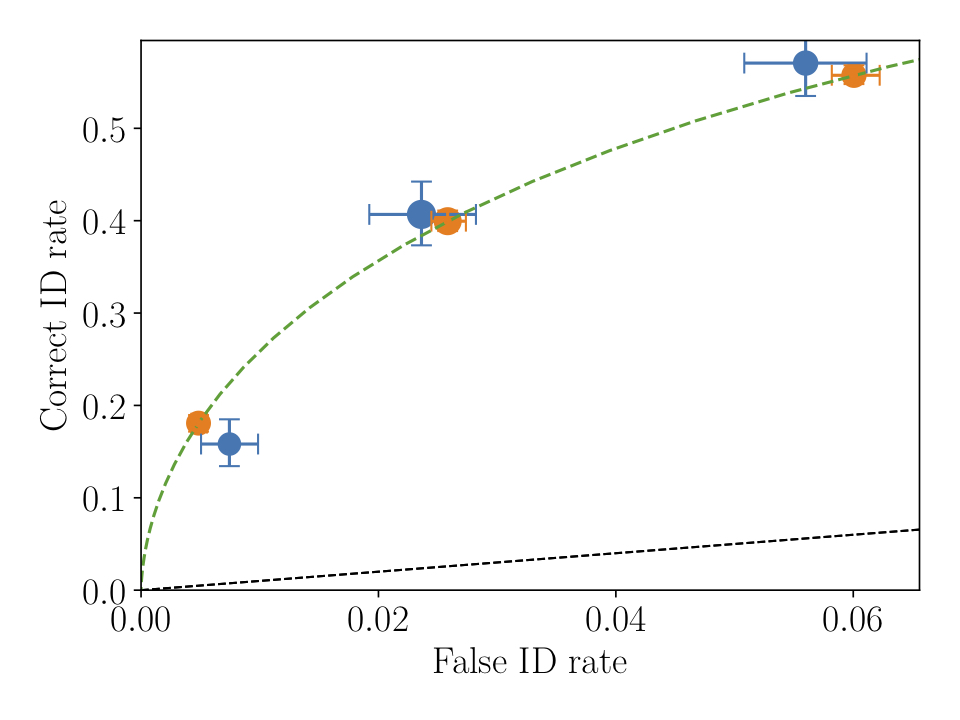
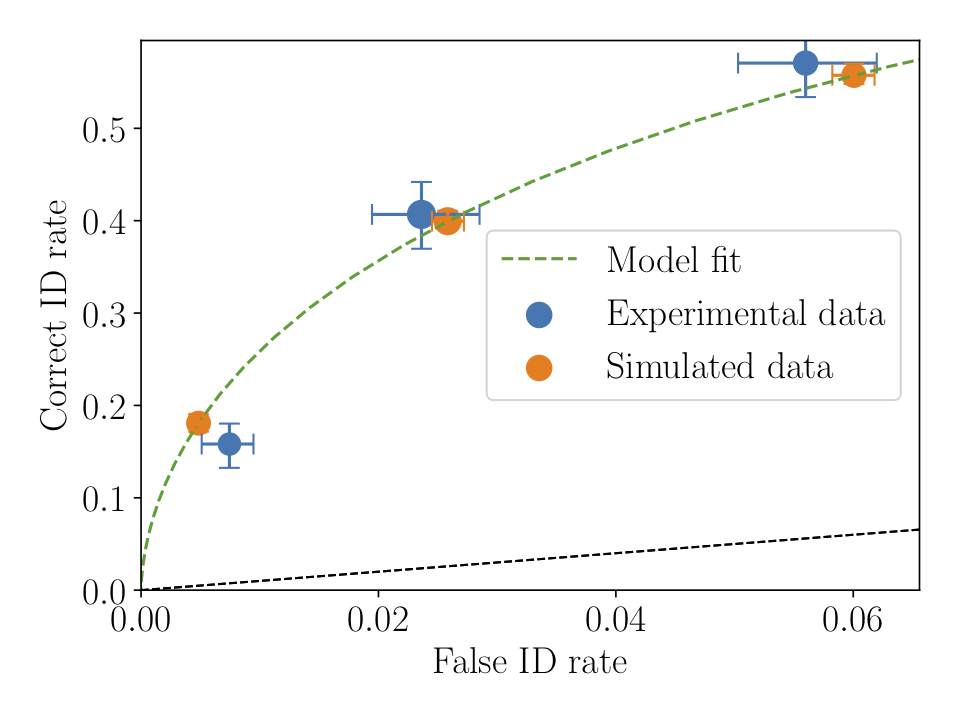
Online manual update

diff --git a/docs/searchindex.js b/docs/searchindex.js
@@ -1,1 +1,1 @@
-Search.setIndex({docnames:["authorship","index","installation","introduction","licence","moduledocs","tutorials","tutorials_adv","tutorials_dev"],envversion:{"sphinx.domains.c":1,"sphinx.domains.changeset":1,"sphinx.domains.cpp":1,"sphinx.domains.javascript":1,"sphinx.domains.math":2,"sphinx.domains.python":1,"sphinx.domains.rst":1,"sphinx.domains.std":1,"sphinx.ext.todo":1,sphinx:55},filenames:["authorship.rst","index.rst","installation.rst","introduction.rst","licence.rst","moduledocs.rst","tutorials.rst","tutorials_adv.rst","tutorials_dev.rst"],objects:{"pyWitness.DataProcessed":{calculateCAC:[5,1,1,""],calculateConfidence:[5,1,1,""],calculateConfidenceBootstrap:[5,1,1,""],calculateNormalisedAUC:[5,1,1,""],calculatePAUC:[5,1,1,""],calculatePivot:[5,1,1,""],calculateRates:[5,1,1,""],calculateRelativeFrequency:[5,1,1,""],liberalTargetAbsentFillerId:[5,2,1,""],liberalTargetAbsentSuspectId:[5,2,1,""],numberConditions:[5,2,1,""],plotCAC:[5,1,1,""],plotRAC:[5,1,1,""],plotROC:[5,1,1,""],printPivot:[5,1,1,""],printRates:[5,1,1,""],writePivotCsv:[5,1,1,""],writePivotExcel:[5,1,1,""],writePivotSimpleCsv:[5,1,1,""],writeRatesCsv:[5,1,1,""],writeRatesExcel:[5,1,1,""]},"pyWitness.DataRaw":{addParticipant:[5,1,1,""],collapseCategoricalData:[5,1,1,""],collapseContinuousData:[5,1,1,""],data:[5,2,1,""],dataMapping:[5,2,1,""],dataSelected:[5,2,1,""],descriptiveStatistics:[5,1,1,""],excelSheet:[5,2,1,""],fileName:[5,2,1,""],loadData:[5,1,1,""],process:[5,1,1,""],renameRawData:[5,1,1,""],resampleWithReplacement:[5,1,1,""],setLineupSize:[5,1,1,""],setResponseType:[5,1,1,""],setResponseTypeFillerId:[5,1,1,""],setResponseTypeRejectId:[5,1,1,""],setResponseTypeSuspectId:[5,1,1,""],setTargetLineup:[5,1,1,""],setTargetLineupAbsent:[5,1,1,""],setTargetLineupPresent:[5,1,1,""],writeCsv:[5,1,1,""],writeExcel:[5,1,1,""]},"pyWitness.ModelFitIndependentObservation":{calculateCumulativeFrequencyForCriterion:[5,1,1,""],monteCarloDecision:[5,1,1,""],setEqualVariance:[5,1,1,""]},pyWitness:{DataProcessed:[5,0,1,""],DataRaw:[5,0,1,""],ModelFitIndependentObservation:[5,0,1,""]}},objnames:{"0":["py","class","Python class"],"1":["py","method","Python method"],"2":["py","attribute","Python attribute"]},objtypes:{"0":"py:class","1":"py:method","2":"py:attribute"},terms:{"class":[5,6,8],"default":6,"float":[3,5,8],"function":[5,6,7],"import":[2,6,7],"int":5,"new":[1,2,3,5,6,7],"public":4,"return":[5,8],"true":[5,6],"try":[2,3,6],And:6,FOR:4,For:[3,7],One:3,The:[0,3,5,6,7],There:[2,3,6],These:2,Use:6,Using:1,__init__:8,_integr:8,_np:8,_plt:7,abil:[3,7],about:3,absent:[3,7,8],accuraci:[3,5],addparticip:5,advanc:1,after:[6,7],against:5,aid:3,algorithm:3,all:[3,5,6,7],along:4,alreadi:7,also:[5,7],alwai:6,analys:3,analysi:[1,2,3,6],analyz:3,ani:[3,4,7],anoth:6,approach:7,appropri:6,area:[5,6],argument:6,arrai:[6,8],arrow:6,associ:[3,6],assum:2,auc:7,authorship:1,automat:[5,6],avail:6,averag:5,axi:7,background:1,bar:[5,7],base:[3,5],bash:2,basic:7,been:[2,3,6],befor:6,belong:6,below:[3,6],best:6,between:6,bin:[1,3,5,7],boogert:0,bool:5,boot:7,bootstrap:[1,5],both:3,bristol:4,build:6,button:2,cac:[1,3,5,7],calcual:5,calcul:[1,3,5,7],calculatecac:5,calculateconfid:5,calculateconfidencebootstrap:[5,7],calculatecumulativefrequencyforcriterion:[5,8],calculatenormalisedauc:5,calculatepauc:5,calculatepivot:5,calculater:5,calculaterelativefrequ:5,calculatewithinsigma:8,call:[2,6,7],calll:7,can:[2,3,4,6,7],cannot:6,canva:7,carlo:[1,3],catagor:1,catagori:[5,6],categor:6,categori:5,central:7,chang:[2,5,6,7],characterist:[1,5],check:7,choos:2,cite:1,click:2,clone:1,code:[1,2,5,6],collaps:[1,7],collapsecategoricaldata:[5,6],collapsecontinuousdata:[5,6,7],colleagu:7,column:[5,6],com:2,comfort:2,command:[2,6],common:1,commonli:3,compar:[3,6],compil:6,complet:6,compris:3,comput:[2,3,7],conda:2,condit:[1,3,5],condtion:7,conf_level:[3,7],confid:[1,3,5,6],confidence_origin:6,consist:[3,5],consol:6,construct:6,consum:3,contain:6,content:1,continu:1,contribut:0,contributor:1,convert:5,copi:[2,4,5,6],copyright:[4,6],could:3,cours:3,creat:[3,5,6,7],credit:6,crime:3,criteria:6,csv:[5,6,7],culprit_pres:[3,7],cummul:6,cumul:[5,6,7],current:6,cursor:6,curv:[1,3,5],cut:6,data:[1,2,5],data_pivot:5,data_r:5,datafram:[5,6],datamap:[5,7],dataprocess:[1,6,7],dataraw:[1,6,7],dataselect:5,debug:[5,8],decis:1,decreas:5,def:8,defin:7,demograph:3,depend:7,deriv:3,describ:6,descriptivestatist:5,detail:4,detect:1,develop:[1,2],diagram:3,differ:[3,6,7],differen:3,directoi:6,directori:[2,6],disclaim:1,discrimin:3,disk:7,displai:6,dissimilar:7,distinguish:3,distribut:[4,6,7],document:[3,5],doe:7,done:[6,7],down:6,download:1,dp1:7,dp2:7,dpseq:7,dpsim:7,dr1:7,dr2:7,drawn:7,dure:6,each:[2,6,7],ecosystem:2,edit:2,effect:7,either:[3,5,6,7],engin:5,enhanc:6,ensembl:3,environ:1,equal:6,error:[2,3,7],errortyp:5,estim:[6,7],etc:7,even:4,exampl:7,excel:[1,5,6],excelsheet:[5,7],exclus:2,execut:6,experi:3,experiment:[1,3,7],explor:7,extra:6,eye:1,eyewit:[1,5],fals:[5,6,8],falseid:5,familiar:2,far:3,featur:6,fequenc:5,file:[1,4,5,7],filenam:5,fill:6,filler:[3,7,8],fillerid:[3,5,6,7],fillerid_high:7,fillerid_low:7,find:6,fit:[1,4],fix:6,flag:5,flexibl:3,flip:5,follow:[0,6,7],forc:6,format:[1,6],forward:7,foundat:4,four:6,fragment:6,frame:[5,6],free:[4,6],frequenc:[3,5,6],frequnci:5,from:[1,3,5,6],further:6,gener:[1,4,5],generaterawdata:7,get:2,git:1,github:2,give:6,given:[3,6,7],gnu:4,goal:1,good:[6,7],green:2,guilti:3,had:7,has:[2,6,7],have:[0,2,3,4,6,7],header:5,help:6,here:6,high:[3,5,7],highlight:6,histori:6,hit:6,hollowai:4,hope:4,http:[2,4],human:3,id_typ:[3,7],idea:6,ident:3,identif:1,identifi:3,illustr:3,imagin:7,impli:4,importantli:3,incomplet:5,inconsist:6,increas:5,independ:[3,6],index:1,inform:6,innoc:3,input:[2,5,6],instal:1,instanc:[1,5],instead:7,integ:3,integr:[3,5,6],integrationsigma:[5,8],interact:[2,3,6],interfac:[1,6],intern:[1,6,7],interpol:6,interpret:[2,6],interv:[5,7],introduct:[1,6],ipython3:[2,6],ipython:[2,6],its:6,kei:[5,6],label:[3,5,6,7],land:6,languag:6,larg:6,laura:0,legend:[5,7],level:6,liber:6,liberaltargetabsentfillerid:5,liberaltargetabsentsuspectid:5,licenc:1,licens:[4,6],like:7,likelihood:[1,3],limit:[1,5],line:[2,6],linear:6,lineup:[3,5,6,8],lineup_s:[3,7],lineups:[3,5,6,7,8],link:6,linux:2,littl:3,lmick:2,load:[1,5],loaddata:5,lock:6,london:4,lot:[6,7],low:[3,5,7],lower:5,lure:6,lurebetweensigma:6,luremean:[6,8],luresigma:[6,8],maco:2,made:3,mai:[3,5],make:[1,3,6,7],mani:6,manipul:[1,3,7],manual:6,map:[3,5,6],match:6,matlab:[1,3],matplotlib:[2,6,7],maximum:[5,6],mayb:7,mean:[6,8],measur:[3,7],medium:3,memori:[3,6],memorystrength:5,merchant:4,mess:6,method:[3,6,7],mf_br:6,mf_en:6,mf_in:6,mf_io:6,mick:0,might:[6,7],miniconda:2,minim:3,model:1,modelfit:[1,6,8],modelfitbestrest:6,modelfitensembl:6,modelfitindependentobserv:[5,6,7],modelfitintegr:[6,8],modifi:4,modul:[1,6],mont:[1,3],montecarlodecis:5,more:[4,6],most:6,move:2,multipl:[6,7],name:[5,6,7],nan:6,nbootstrap:[5,7],need:[2,3,6,7],ngenparticip:7,nlineup:8,none:[5,6,7],normcdf:8,normpdf:8,note:6,now:6,numba:[2,6],number:[3,5,7],numbercondit:5,numbertalineup:8,numbertplineup:8,numer:[5,6],numpi:[2,6],object:[5,6,7],observ:[3,6],onc:[6,7],one:[6,7],onli:7,open:[2,3],openpyxl:[2,5,6],oper:[1,5],option:7,order:[6,7],org:4,organis:3,orient:[6,7],origin:[6,7],other:[2,3,5],our:3,output:[5,6],overlai:1,own:2,pacakg:3,packag:[1,2,3],page:1,panda:[2,5,6],parad:3,paramet:[5,7],part:[4,5],partial:[5,6],particip:7,participantid:[3,5,6],particular:[4,6],past:[2,6],pauc:[1,3,7],peopl:[0,5],perform:[1,3,7],perpetr:3,person:3,pip3:2,pivot:[3,5,6,7],place:3,plot:[1,3,5],plotcac:[5,6,7],plotfit:6,plotmodel:6,plotrac:5,plotroc:[5,6,7],plotxxx:7,point:[3,6],polic:3,popul:7,posit:3,possibl:[3,7],power:[1,3],powershel:2,pred_tafid:8,pred_tafid_arrai:5,pred_tpfid:8,pred_tpfid_arrai:5,pred_tpsid:8,pred_tpsid_arrai:5,predict:3,present:[3,7,8],preserv:7,previou:6,previous:6,print:6,printparamet:6,printpivot:[5,6],printrat:[5,6],prob_tafid:8,prob_tpfid:8,prob_tpsid:8,probabl:6,probfilleridtargetabs:8,probfilleridtargetabsentintegr:8,probfilleridtargetpres:8,probfilleridtargetpresentintegr:8,probtargetidtargetpres:8,probtargetidtargetpresentintegr:8,proc:3,proccess:7,proce:[2,7],procedur:3,process:[1,3,5],processeddata:[5,8],program:[2,6],prompt:6,prone:3,proport:5,provid:[2,6],publish:4,pull:2,purpos:4,pylab:[2,6],pyplot:7,python:[1,5,7],pyw:6,pywit:[4,5,6,7],quad:8,quantiti:7,rac:[1,3],random:7,rang:[6,7],rate:[3,5,6,7],raw:[1,3,5],read:6,reaload:5,rebin:[5,7],receiv:[1,4,5],redistribut:4,reduc:[3,6],reject:[3,5,7],rejectid:[3,6,7],rejectid_high:7,rejectid_low:7,rel:[3,5,6],relabel:6,relativefrequencyscal:[5,6],releas:6,relev:3,reload:[5,6],remap:5,renam:5,renamerawdata:5,repeat:7,replac:[2,5,7],repositori:1,reproduc:3,requir:[1,5,6,7],resampl:5,resamplewithreplac:5,research:1,respons:3,responsetim:6,responsetyp:[3,5,6,7],result:[1,5],reverseconfid:5,roc:[1,5,7],row:7,royal:4,rtype:5,rule:[1,6],run:[1,3,6],same:[6,7],sampl:7,scale:[3,5],scan:5,scipi:[2,6],search:[1,6],see:[4,6],select:5,self:8,sep:6,sequenti:7,session:7,set:[3,5,6,7],set_equ:6,setequalvari:[5,6,7],setlineups:5,setresponsetyp:5,setresponsetypefillerid:5,setresponsetyperejectid:5,setresponsetypesuspectid:5,settargetlineup:5,settargetlineupabs:5,settargetlineuppres:5,share:7,sheet:[5,7],shell:2,should:[2,4,6],show:1,shown:[3,6],showup:3,sigma:8,signal:1,simpl:6,simpli:7,simpson:6,simul:[1,3,7],simultan:7,simultanu:7,singl:[1,6],size:[5,6,7],smooth:3,softwar:4,some:6,sourc:[3,5],specifi:7,speed:6,sqrt:8,start:[2,6],statist:[1,7],stewart:0,store:[3,5,6,7],str:5,straight:7,strap:7,strenth:6,string:6,structur:1,suitabl:2,sujectid:3,suspect:[3,7,8],suspectid:[3,5,6,7],suspectid_high:7,suspectid_low:7,symbol:[5,6],synthet:7,tab:6,tabl:[5,6,7],take:[5,7],target:[3,6,8],targetabs:[3,5,6,7],targetbetweensigma:[6,8],targetlineup:[3,5,6,7],targetmean:[6,8],targetpres:[3,5,6,7],targetsigma:[6,8],teach:3,term:4,termin:[2,6],test1:[6,7],test1_pivot:6,test1_process:7,test1_rat:6,test2:7,test:1,thei:[5,6],theori:1,thi:[2,4,5,6,7],three:3,thu:3,time:[3,7],tip:6,tlm:8,tlv:8,togeth:6,too:7,tool:3,toolbox:3,transcrib:3,transform:1,truncatedmean:8,truncatedvar:8,tselect:5,ttm:8,ttv:8,tutori:[1,2],twice:7,two:[2,6],type:[2,5,6],typic:6,typo:6,uncertainti:[1,3],under:[4,5,6],understand:[3,6],unfix:6,univers:4,unnam:6,unpack:2,unset_equ:6,updat:[2,6],upper:5,ups:1,upto:6,use:[2,3,5],used:[2,3,5,6,7],useful:4,user:[2,7],uses:[6,7],using:[3,5,6,7],usual:5,valu:[5,6,8],vari:7,variabl:[6,7],variat:7,verbal:3,veri:7,version:4,wai:[2,3,6],want:[6,7],warranti:4,were:6,when:6,where:6,which:[5,6,7],window:[2,6],wit:1,without:4,work:[1,6],would:[6,7],wrapper:5,write:[1,5],writecsv:[5,7],writeexcel:[5,7],writepivotcsv:[5,6],writepivotexcel:[5,6],writepivotsimplecsv:5,writeratescsv:[5,6],writeratesexcel:[5,6],written:[6,7],www:4,xlim:7,xlrd:[2,6],xlsx:[6,7],xmax:5,yellow:6,yield:6,ylim:7,you:[2,4,6,7],your:[2,6,7],zip:1},titles:["Authorship","pyWitness Documentation","Installation","Introduction","Licence &amp; Disclaimer","Module Contents","Tutorials","Advanced tutorials","Developer tutorials"],titleterms:{"new":8,Using:7,advanc:7,allow:[3,7],analysi:7,authorship:0,background:3,bin:6,bootstrap:7,cac:6,calcul:6,carlo:8,catagor:6,characterist:3,cite:0,clone:2,code:[3,8],collaps:6,column:[3,7],common:7,condit:7,confid:7,content:5,continu:6,contributor:0,control:6,curv:6,data:[3,6,7],dataprocess:5,dataraw:5,decis:8,detect:[3,6,7],develop:8,disclaim:4,document:1,download:2,environ:2,exampl:[3,6],excel:7,experiment:6,eyewit:3,file:[2,3,6],fit:[3,6,7],format:[3,7],from:7,gener:7,git:2,goal:3,identif:3,indic:1,instal:2,instanc:7,interfac:8,intern:3,introduct:3,licenc:4,likelihood:8,limit:7,load:[6,7],make:8,matlab:8,model:[3,6,7,8],modelfit:5,modul:5,mont:8,oper:3,overlai:7,paramet:6,pauc:6,perform:6,plot:[6,7],power:7,process:[6,7],python:[2,6],pywit:[0,1,2,3],rac:6,raw:[6,7],receiv:3,repositori:2,requir:2,research:3,result:6,roc:[3,6],rule:8,run:8,sdtlu:3,show:3,signal:[3,6,7],singl:7,statist:[3,6],structur:3,tabl:1,test:[2,3,6,8],theori:3,transform:[3,7],tutori:[6,7,8],uncertainti:7,ups:3,valu:[3,7],work:2,write:6,zip:2}})
+Search.setIndex({docnames:["authorship","index","installation","introduction","licence","moduledocs","tutorials","tutorials_adv","tutorials_dev"],envversion:{"sphinx.domains.c":1,"sphinx.domains.changeset":1,"sphinx.domains.cpp":1,"sphinx.domains.javascript":1,"sphinx.domains.math":2,"sphinx.domains.python":1,"sphinx.domains.rst":1,"sphinx.domains.std":1,"sphinx.ext.todo":1,sphinx:55},filenames:["authorship.rst","index.rst","installation.rst","introduction.rst","licence.rst","moduledocs.rst","tutorials.rst","tutorials_adv.rst","tutorials_dev.rst"],objects:{"pyWitness.DataProcessed":{calculateCAC:[5,1,1,""],calculateConfidence:[5,1,1,""],calculateConfidenceBootstrap:[5,1,1,""],calculateNormalisedAUC:[5,1,1,""],calculatePAUC:[5,1,1,""],calculatePivot:[5,1,1,""],calculateRates:[5,1,1,""],calculateRelativeFrequency:[5,1,1,""],liberalTargetAbsentFillerId:[5,2,1,""],liberalTargetAbsentSuspectId:[5,2,1,""],numberConditions:[5,2,1,""],plotCAC:[5,1,1,""],plotRAC:[5,1,1,""],plotROC:[5,1,1,""],printPivot:[5,1,1,""],printRates:[5,1,1,""],writePivotCsv:[5,1,1,""],writePivotExcel:[5,1,1,""],writePivotSimpleCsv:[5,1,1,""],writeRatesCsv:[5,1,1,""],writeRatesExcel:[5,1,1,""]},"pyWitness.DataRaw":{addParticipant:[5,1,1,""],collapseCategoricalData:[5,1,1,""],collapseContinuousData:[5,1,1,""],data:[5,2,1,""],dataMapping:[5,2,1,""],dataSelected:[5,2,1,""],descriptiveStatistics:[5,1,1,""],excelSheet:[5,2,1,""],fileName:[5,2,1,""],loadData:[5,1,1,""],process:[5,1,1,""],renameRawData:[5,1,1,""],resampleWithReplacement:[5,1,1,""],setLineupSize:[5,1,1,""],setResponseType:[5,1,1,""],setResponseTypeFillerId:[5,1,1,""],setResponseTypeRejectId:[5,1,1,""],setResponseTypeSuspectId:[5,1,1,""],setTargetLineup:[5,1,1,""],setTargetLineupAbsent:[5,1,1,""],setTargetLineupPresent:[5,1,1,""],writeCsv:[5,1,1,""],writeExcel:[5,1,1,""]},"pyWitness.ModelFitIndependentObservation":{calculateCumulativeFrequencyForCriterion:[5,1,1,""],monteCarloDecision:[5,1,1,""],setEqualVariance:[5,1,1,""]},pyWitness:{DataProcessed:[5,0,1,""],DataRaw:[5,0,1,""],ModelFitIndependentObservation:[5,0,1,""]}},objnames:{"0":["py","class","Python class"],"1":["py","method","Python method"],"2":["py","attribute","Python attribute"]},objtypes:{"0":"py:class","1":"py:method","2":"py:attribute"},terms:{"class":[5,6,8],"default":6,"float":[3,5,8],"function":[5,6,7],"import":[2,6,7],"int":5,"new":[1,2,3,5,6,7],"public":4,"return":[5,8],"true":[5,6],"try":[2,3,6],And:6,FOR:4,For:[3,7],One:3,The:[0,3,5,6,7],There:[2,3,6],These:2,Use:6,Using:1,__init__:8,_integr:8,_np:8,_plt:7,abil:[3,7],about:3,absent:[3,7,8],accuraci:[3,5],addparticip:5,advanc:1,after:[6,7],against:5,aid:3,algorithm:3,all:[3,5,6,7],along:4,alreadi:7,also:[5,7],alwai:6,analys:3,analysi:[1,2,3,6],analyz:3,ani:[3,4,7],anoth:6,approach:7,appropri:6,area:[5,6],argument:6,arrai:[6,8],arrow:6,associ:[3,6],assum:2,auc:7,authorship:1,automat:[5,6],avail:6,averag:5,axi:7,background:1,bar:[5,7],base:[3,5],bash:2,basic:7,been:[2,3,6],befor:6,belong:6,below:[3,6],best:6,between:6,bin:[1,3,5,7],boogert:0,bool:5,boot:7,bootstrap:[1,5],both:3,bristol:4,build:6,button:2,cac:[1,3,5,7],calcual:5,calcul:[1,3,5,7],calculatecac:5,calculateconfid:5,calculateconfidencebootstrap:[5,7],calculatecumulativefrequencyforcriterion:[5,8],calculatenormalisedauc:5,calculatepauc:5,calculatepivot:5,calculater:5,calculaterelativefrequ:5,calculatewithinsigma:8,call:[2,6,7],calll:7,can:[2,3,4,6,7],cannot:6,canva:7,carlo:[1,3],catagor:1,catagori:[5,6],categor:6,categori:5,central:7,chang:[2,5,6,7],characterist:[1,5],check:7,choos:2,cite:1,click:2,clone:1,code:[1,2,5,6],collaps:[1,7],collapsecategoricaldata:[5,6],collapsecontinuousdata:[5,6,7],colleagu:7,column:[5,6],com:2,comfort:2,command:[2,6],common:1,commonli:3,compar:[3,6],compil:6,complet:6,compris:3,comput:[2,3,7],conda:2,condit:[1,3,5],condtion:7,conf_level:[3,7],confid:[1,3,5,6],confidence_origin:6,consist:[3,5],consol:6,construct:6,consum:3,contain:6,content:1,continu:1,contribut:0,contributor:1,convert:5,copi:[2,4,5,6],copyright:[4,6],could:3,cours:3,creat:[3,5,6,7],credit:6,crime:3,criteria:6,csv:[5,6,7],culprit_pres:[3,7],cummul:6,cumul:[5,6,7],current:6,cursor:6,curv:[1,3,5],cut:6,data:[1,2,5],data_pivot:5,data_r:5,datafram:[5,6],datamap:[5,7],dataprocess:[1,6,7],dataraw:[1,6,7],dataselect:5,debug:[5,8],decis:1,decreas:5,def:8,defin:7,demograph:3,depend:7,deriv:3,describ:6,descriptivestatist:5,detail:4,detect:1,develop:[1,2],diagram:3,differ:[3,6,7],differen:3,directoi:6,directori:[2,6],disclaim:1,discrimin:3,disk:7,displai:6,dissimilar:7,distinguish:3,distribut:[4,6,7],document:[3,5],doe:7,done:[6,7],down:6,download:1,dp1:7,dp2:7,dpseq:7,dpsim:7,dr1:7,dr2:7,drawn:7,dure:6,each:[2,6,7],ecosystem:2,edit:2,effect:7,either:[3,5,6,7],engin:5,enhanc:6,ensembl:3,environ:1,equal:6,error:[2,3,7],errortyp:5,estim:[6,7],etc:7,even:4,exampl:7,excel:[1,5,6],excelsheet:[5,7],exclus:2,execut:6,experi:3,experiment:[1,3,7],explor:7,extra:6,eye:1,eyewit:[1,5],fals:[5,6,8],falseid:5,familiar:2,far:3,featur:6,fequenc:5,file:[1,4,5,7],filenam:5,fill:6,filler:[3,7,8],fillerid:[3,5,6,7],fillerid_high:7,fillerid_low:7,find:6,fit:[1,4],fix:6,flag:5,flexibl:3,flip:5,follow:[0,6,7],forc:6,format:[1,6],forward:7,foundat:4,four:6,fragment:6,frame:[5,6],free:[4,6],frequenc:[3,5,6],frequnci:5,from:[1,3,5,6],further:6,gener:[1,4,5],generaterawdata:7,get:2,git:1,github:2,give:6,given:[3,6,7],gnu:4,goal:1,good:[6,7],green:2,guilti:3,had:7,has:[2,6,7],have:[0,2,3,4,6,7],header:5,help:6,here:6,high:[3,5,7],highlight:6,histori:6,hit:6,hollowai:4,hope:4,http:[2,4],human:3,id_typ:[3,7],idea:6,ident:3,identif:1,identifi:3,illustr:3,imagin:7,impli:4,importantli:3,incomplet:5,inconsist:6,increas:5,independ:[3,6],index:1,inform:6,innoc:3,input:[2,5,6],instal:1,instanc:[1,5],instead:7,integ:3,integr:[3,5,6],integrationsigma:[5,8],interact:[2,3,6],interfac:[1,6],intern:[1,6,7],interpol:6,interpret:[2,6],interv:[5,7],introduct:[1,6],ipython3:[2,6],ipython:[2,6],its:6,kei:[5,6],label:[3,5,6,7],labl:[],land:6,languag:6,larg:6,laura:0,legend:[5,7],level:6,liber:6,liberaltargetabsentfillerid:5,liberaltargetabsentsuspectid:5,licenc:1,licens:[4,6],like:7,likelihood:[1,3],limit:[1,5],line:[2,6],linear:6,lineup:[3,5,6,8],lineup_s:[3,7],lineups:[3,5,6,7,8],link:6,linux:2,littl:3,lmick:2,load:[1,5],loaddata:5,lock:6,london:4,lot:[6,7],low:[3,5,7],lower:5,lure:6,lurebetweensigma:6,luremean:[6,8],luresigma:[6,8],maco:2,made:3,mai:[3,5],make:[1,3,6,7],mani:6,manipul:[1,3,7],manual:6,map:[3,5,6],match:6,matlab:[1,3],matplotlib:[2,6,7],maximum:[5,6],mayb:7,mean:[6,8],measur:[3,7],medium:3,memori:[3,6],memorystrength:5,merchant:4,mess:6,method:[3,6,7],mf_br:6,mf_en:6,mf_in:6,mf_io:6,mick:0,might:[6,7],miniconda:2,minim:3,model:1,modelfit:[1,6,8],modelfitbestrest:6,modelfitensembl:6,modelfitindependentobserv:[5,6,7],modelfitintegr:[6,8],modifi:4,modul:[1,6],mont:[1,3],montecarlodecis:5,more:[4,6],most:6,move:2,multipl:[6,7],name:[5,6,7],nan:6,nbootstrap:[5,7],need:[2,3,6,7],ngenparticip:7,nlineup:8,none:[5,6,7],normcdf:8,normpdf:8,note:6,now:6,numba:[2,6],number:[3,5,7],numbercondit:5,numbertalineup:8,numbertplineup:8,numer:[5,6],numpi:[2,6],object:[5,6,7],observ:[3,6],onc:[6,7],one:[6,7],onli:7,open:[2,3],openpyxl:[2,5,6],oper:[1,5],option:7,order:[6,7],org:4,organis:3,orient:[6,7],origin:[6,7],other:[2,3,5],our:3,output:[5,6],overlai:1,own:2,pacakg:3,packag:[1,2,3],page:1,panda:[2,5,6],parad:3,paramet:[5,7],part:[4,5],partial:[5,6],particip:7,participantid:[3,5,6],particular:[4,6],past:[2,6],pauc:[1,3,7],peopl:[0,5],perform:[1,3,7],perpetr:3,person:3,pip3:2,pivot:[3,5,6,7],place:3,plot:[1,3,5],plotcac:[5,6,7],plotfit:6,plotmodel:6,plotrac:5,plotroc:[5,6,7],plotxxx:7,point:[3,6],polic:3,popul:7,posit:3,possibl:[3,7],power:[1,3],powershel:2,pred_tafid:8,pred_tafid_arrai:5,pred_tpfid:8,pred_tpfid_arrai:5,pred_tpsid:8,pred_tpsid_arrai:5,predict:3,present:[3,7,8],preserv:7,previou:6,previous:6,print:6,printparamet:6,printpivot:[5,6],printrat:[5,6],prob_tafid:8,prob_tpfid:8,prob_tpsid:8,probabl:6,probfilleridtargetabs:8,probfilleridtargetabsentintegr:8,probfilleridtargetpres:8,probfilleridtargetpresentintegr:8,probtargetidtargetpres:8,probtargetidtargetpresentintegr:8,proc:3,proccess:7,proce:[2,7],procedur:3,process:[1,3,5],processeddata:[5,8],program:[2,6],prompt:6,prone:3,proport:5,provid:[2,6],publish:4,pull:2,purpos:4,pylab:[2,6],pyplot:7,python:[1,5,7],pyw:6,pywit:[4,5,6,7],quad:8,quantiti:7,rac:[1,3],random:7,rang:[6,7],rate:[3,5,6,7],raw:[1,3,5],read:6,reaload:5,rebin:[5,7],receiv:[1,4,5],redistribut:4,reduc:[3,6],reject:[3,5,7],rejectid:[3,6,7],rejectid_high:7,rejectid_low:7,rel:[3,5,6],relabel:6,relativefrequencyscal:[5,6],releas:6,relev:3,reload:[5,6],remap:5,renam:5,renamerawdata:5,repeat:7,replac:[2,5,7],repositori:1,reproduc:3,requir:[1,5,6,7],resampl:5,resamplewithreplac:5,research:1,respons:3,responsetim:6,responsetyp:[3,5,6,7],result:[1,5],reverseconfid:5,roc:[1,5,7],row:7,royal:4,rtype:5,rule:[1,6],run:[1,3,6],same:[6,7],sampl:7,scale:[3,5],scan:5,scipi:[2,6],search:[1,6],see:[4,6],select:5,self:8,sep:6,sequenti:7,session:7,set:[3,5,6,7],set_equ:6,setequalvari:[5,6,7],setlineups:5,setresponsetyp:5,setresponsetypefillerid:5,setresponsetyperejectid:5,setresponsetypesuspectid:5,settargetlineup:5,settargetlineupabs:5,settargetlineuppres:5,share:7,sheet:[5,7],shell:2,should:[2,4,6],show:1,shown:[3,6],showup:3,sigma:8,signal:1,simpl:6,simpli:7,simpson:6,simul:[1,3,7],simultan:7,simultanu:7,singl:[1,6],size:[5,6,7],smooth:3,softwar:4,some:6,sourc:[3,5],specifi:7,speed:6,sqrt:8,start:[2,6],statist:[1,7],stewart:0,store:[3,5,6,7],str:5,straight:7,strap:7,strenth:6,string:6,structur:1,suitabl:2,sujectid:3,suspect:[3,7,8],suspectid:[3,5,6,7],suspectid_high:7,suspectid_low:7,symbol:[5,6],synthet:7,tab:6,tabl:[5,6,7],take:[5,7],target:[3,6,8],targetabs:[3,5,6,7],targetbetweensigma:[6,8],targetlineup:[3,5,6,7],targetmean:[6,8],targetpres:[3,5,6,7],targetsigma:[6,8],teach:3,term:4,termin:[2,6],test1:[6,7],test1_pivot:6,test1_process:7,test1_rat:6,test2:7,test:1,thei:[5,6],theori:1,thi:[2,4,5,6,7],three:3,thu:3,time:[3,7],tip:6,tlm:8,tlv:8,togeth:6,too:7,tool:3,toolbox:3,transcrib:3,transform:1,truncatedmean:8,truncatedvar:8,tselect:5,ttm:8,ttv:8,tutori:[1,2],twice:7,two:[2,6],type:[2,5,6],typic:6,typo:6,uncertainti:[1,3],under:[4,5,6],understand:[3,6],unfix:6,univers:4,unnam:6,unpack:2,unset_equ:6,updat:[2,6],upper:5,ups:1,upto:6,use:[2,3,5],used:[2,3,5,6,7],useful:4,user:[2,7],uses:[6,7],using:[3,5,6,7],usual:5,valu:[5,6,8],vari:7,variabl:[6,7],variat:7,verbal:3,veri:7,version:4,wai:[2,3,6],want:[6,7],warranti:4,were:6,when:6,where:6,which:[5,6,7],window:[2,6],wit:1,without:4,work:[1,6],would:[6,7],wrapper:5,write:[1,5],writecsv:[5,7],writeexcel:[5,7],writepivotcsv:[5,6],writepivotexcel:[5,6],writepivotsimplecsv:5,writeratescsv:[5,6],writeratesexcel:[5,6],written:[6,7],www:4,xlim:7,xlrd:[2,6],xlsx:[6,7],xmax:5,yellow:6,yield:6,ylim:7,you:[2,4,6,7],your:[2,6,7],zip:1},titles:["Authorship","pyWitness Documentation","Installation","Introduction","Licence &amp; Disclaimer","Module Contents","Tutorials","Advanced tutorials","Developer tutorials"],titleterms:{"new":8,Using:7,advanc:7,allow:[3,7],analysi:7,authorship:0,background:3,bin:6,bootstrap:7,cac:6,calcul:6,carlo:8,catagor:6,characterist:3,cite:0,clone:2,code:[3,8],collaps:6,column:[3,7],common:7,condit:7,confid:7,content:5,continu:6,contributor:0,control:6,curv:6,data:[3,6,7],dataprocess:5,dataraw:5,decis:8,detect:[3,6,7],develop:8,disclaim:4,document:1,download:2,environ:2,exampl:[3,6],excel:7,experiment:6,eyewit:3,file:[2,3,6],fit:[3,6,7],format:[3,7],from:7,gener:7,git:2,goal:3,identif:3,indic:1,instal:2,instanc:7,interfac:8,intern:3,introduct:3,licenc:4,likelihood:8,limit:7,load:[6,7],make:8,matlab:8,model:[3,6,7,8],modelfit:5,modul:5,mont:8,oper:3,overlai:7,paramet:6,pauc:6,perform:6,plot:[6,7],power:7,process:[6,7],python:[2,6],pywit:[0,1,2,3],rac:6,raw:[6,7],receiv:3,repositori:2,requir:2,research:3,result:6,roc:[3,6],rule:8,run:8,sdtlu:3,show:3,signal:[3,6,7],singl:7,statist:[3,6],structur:3,tabl:1,test:[2,3,6,8],theori:3,transform:[3,7],tutori:[6,7,8],uncertainti:7,ups:3,valu:[3,7],work:2,write:6,zip:2}})

diff --git a/docs/tutorials_adv.html b/docs/tutorials_adv.html
@@ -388,7 +388,7 @@ the <code class="docutils literal notranslate"><span class="pre">test1.csv</span
 <span class="n">dr1</span> <span class="o">=</span> <span class="n">pyWitness</span><span class="o">.</span><span class="n">DataRaw</span><span class="p">(</span><span class="s2">&quot;test1.csv&quot;</span><span class="p">)</span>
 <span class="n">dr2</span> <span class="o">=</span> <span class="n">pyWitness</span><span class="o">.</span><span class="n">DataRaw</span><span class="p">(</span><span class="s2">&quot;test1.csv&quot;</span><span class="p">)</span>
 
-<span class="n">dr2</span><span class="o">.</span><span class="n">collapseContinuousData</span><span class="p">(</span><span class="n">column</span> <span class="o">=</span> <span class="s2">&quot;confidence&quot;</span><span class="p">,</span><span class="n">bins</span> <span class="o">=</span> <span class="p">[</span><span class="o">-</span><span class="mi">1</span><span class="p">,</span><span class="mi">60</span><span class="p">,</span><span class="mi">80</span><span class="p">,</span><span class="mi">100</span><span class="p">],</span><span class="n">labels</span><span class="o">=</span> <span class="p">[</span><span class="mi">1</span><span class="p">,</span><span class="mi">2</span><span class="p">,</span><span class="mi">3</span><span class="p">])</span>
+<span class="n">dr2</span><span class="o">.</span><span class="n">collapseContinuousData</span><span class="p">(</span><span class="n">column</span> <span class="o">=</span> <span class="s2">&quot;confidence&quot;</span><span class="p">,</span><span class="n">bins</span> <span class="o">=</span> <span class="p">[</span><span class="o">-</span><span class="mi">1</span><span class="p">,</span><span class="mi">60</span><span class="p">,</span><span class="mi">80</span><span class="p">,</span><span class="mi">100</span><span class="p">],</span><span class="n">labels</span><span class="o">=</span><span class="kc">None</span><span class="p">)</span>
 
 <span class="n">dp1</span> <span class="o">=</span> <span class="n">dr1</span><span class="o">.</span><span class="n">process</span><span class="p">()</span>
 <span class="n">dp2</span> <span class="o">=</span> <span class="n">dr2</span><span class="o">.</span><span class="n">process</span><span class="p">()</span>
@@ -420,7 +420,7 @@ sequentially in order.</p>
 <span class="n">dr1</span> <span class="o">=</span> <span class="n">pyWitness</span><span class="o">.</span><span class="n">DataRaw</span><span class="p">(</span><span class="s2">&quot;test1.csv&quot;</span><span class="p">)</span>
 <span class="n">dr2</span> <span class="o">=</span> <span class="n">pyWitness</span><span class="o">.</span><span class="n">DataRaw</span><span class="p">(</span><span class="s2">&quot;test1.csv&quot;</span><span class="p">)</span>
 
-<span class="n">dr2</span><span class="o">.</span><span class="n">collapseContinuousData</span><span class="p">(</span><span class="n">column</span> <span class="o">=</span> <span class="s2">&quot;confidence&quot;</span><span class="p">,</span><span class="n">bins</span> <span class="o">=</span> <span class="p">[</span><span class="o">-</span><span class="mi">1</span><span class="p">,</span><span class="mi">60</span><span class="p">,</span><span class="mi">80</span><span class="p">,</span><span class="mi">100</span><span class="p">],</span><span class="n">labels</span><span class="o">=</span> <span class="p">[</span><span class="mi">1</span><span class="p">,</span><span class="mi">2</span><span class="p">,</span><span class="mi">3</span><span class="p">])</span>
+<span class="n">dr2</span><span class="o">.</span><span class="n">collapseContinuousData</span><span class="p">(</span><span class="n">column</span> <span class="o">=</span> <span class="s2">&quot;confidence&quot;</span><span class="p">,</span><span class="n">bins</span> <span class="o">=</span> <span class="p">[</span><span class="o">-</span><span class="mi">1</span><span class="p">,</span><span class="mi">60</span><span class="p">,</span><span class="mi">80</span><span class="p">,</span><span class="mi">100</span><span class="p">],</span><span class="n">labels</span><span class="o">=</span><span class="kc">None</span><span class="p">)</span>
 
 <span class="n">dp1</span> <span class="o">=</span> <span class="n">dr1</span><span class="o">.</span><span class="n">process</span><span class="p">()</span>
 <span class="n">dp2</span> <span class="o">=</span> <span class="n">dr2</span><span class="o">.</span><span class="n">process</span><span class="p">()</span>
@@ -453,7 +453,7 @@ sequentially in order.</p>
 7
 8</pre></div></td><td class="code"><div class="highlight"><pre><span></span><span class="kn">import</span> <span class="nn">pyWitness</span>
 <span class="n">dr</span> <span class="o">=</span> <span class="n">pyWitness</span><span class="o">.</span><span class="n">DataRaw</span><span class="p">(</span><span class="s2">&quot;test1.csv&quot;</span><span class="p">)</span>
-<span class="n">dr</span><span class="o">.</span><span class="n">collapseContinuousData</span><span class="p">(</span><span class="n">column</span> <span class="o">=</span> <span class="s2">&quot;confidence&quot;</span><span class="p">,</span><span class="n">bins</span> <span class="o">=</span> <span class="p">[</span><span class="o">-</span><span class="mi">1</span><span class="p">,</span><span class="mi">60</span><span class="p">,</span><span class="mi">80</span><span class="p">,</span><span class="mi">100</span><span class="p">],</span><span class="n">labels</span><span class="o">=</span> <span class="kc">None</span><span class="p">)</span>
+<span class="n">dr</span><span class="o">.</span><span class="n">collapseContinuousData</span><span class="p">(</span><span class="n">column</span> <span class="o">=</span> <span class="s2">&quot;confidence&quot;</span><span class="p">,</span><span class="n">bins</span> <span class="o">=</span> <span class="p">[</span><span class="o">-</span><span class="mi">1</span><span class="p">,</span><span class="mi">60</span><span class="p">,</span><span class="mi">80</span><span class="p">,</span><span class="mi">100</span><span class="p">],</span><span class="n">labels</span><span class="o">=</span><span class="kc">None</span><span class="p">)</span>
 <span class="n">dp</span> <span class="o">=</span> <span class="n">dr</span><span class="o">.</span><span class="n">process</span><span class="p">()</span>
 <span class="n">mf</span> <span class="o">=</span> <span class="n">pyWitness</span><span class="o">.</span><span class="n">ModelFitIndependentObservation</span><span class="p">(</span><span class="n">dp</span><span class="p">)</span>
 <span class="n">mf</span><span class="o">.</span><span class="n">setEqualVariance</span><span class="p">()</span>
@@ -465,9 +465,7 @@ sequentially in order.</p>
 pyWitness analysis so ROC, CAC, (p)AUC etc. The raw data can also be written to disk to either preserve or
 share with colleagues.</p>
 <div class="highlight-python notranslate"><table class="highlighttable"><tr><td class="linenos"><div class="linenodiv"><pre>1
-2
-3</pre></div></td><td class="code"><div class="highlight"><pre><span></span><span class="n">dr1</span> <span class="o">=</span> <span class="n">mf</span><span class="o">.</span><span class="n">generateRawData</span><span class="p">(</span><span class="n">nGenParticipants</span><span class="o">=</span><span class="mi">10000</span><span class="p">)</span>
-<span class="hll"><span class="n">dr1</span><span class="o">.</span><span class="n">writeCsv</span><span class="p">()</span>
+2</pre></div></td><td class="code"><div class="highlight"><pre><span></span><span class="hll"><span class="n">dr1</span><span class="o">.</span><span class="n">writeCsv</span><span class="p">()</span>
 </span><span class="hll"><span class="n">dr1</span><span class="o">.</span><span class="n">writeExcel</span><span class="p">()</span>
 </span></pre></div>
 </td></tr></table></div>
@@ -482,7 +480,10 @@ share with colleagues.</p>
  8
  9
 10
-11</pre></div></td><td class="code"><div class="highlight"><pre><span></span><span class="c1"># Need to process the synthetic data</span>
+11
+12
+13
+14</pre></div></td><td class="code"><div class="highlight"><pre><span></span><span class="c1"># Need to process the synthetic data</span>
 <span class="n">dp1</span> <span class="o">=</span> <span class="n">dr1</span><span class="o">.</span><span class="n">process</span><span class="p">()</span>
 
 <span class="c1"># calculate uncertainties using bootstrap</span>
@@ -490,9 +491,12 @@ share with colleagues.</p>
 <span class="n">dp1</span><span class="o">.</span><span class="n">calculateConfidenceBootstrap</span><span class="p">()</span>
 
 <span class="c1"># plot ROCs</span>
-<span class="n">dp</span><span class="o">.</span><span class="n">plotROC</span><span class="p">()</span>
-<span class="n">dp1</span><span class="o">.</span><span class="n">plotROC</span><span class="p">()</span>
-<span class="n">mf</span><span class="o">.</span><span class="n">plotROC</span><span class="p">()</span>
+<span class="n">dp</span><span class="o">.</span><span class="n">plotROC</span><span class="p">(</span><span class="n">label</span><span class="o">=</span><span class="s2">&quot;Experimental data&quot;</span><span class="p">)</span>
+<span class="n">dp1</span><span class="o">.</span><span class="n">plotROC</span><span class="p">(</span><span class="n">label</span><span class="o">=</span><span class="s2">&quot;Simulated data&quot;</span><span class="p">)</span>
+<span class="n">mf</span><span class="o">.</span><span class="n">plotROC</span><span class="p">(</span><span class="n">label</span><span class="o">=</span><span class="s2">&quot;Model fit&quot;</span><span class="p">)</span>
+
+<span class="kn">import</span> <span class="nn">matplotlib.pyplot</span> <span class="k">as</span> <span class="nn">_plt</span>
+<span class="n">_plt</span><span class="o">.</span><span class="n">legend</span><span class="p">()</span>
 </pre></div>
 </td></tr></table></div>
 <div class="figure">

diff --git a/manual/source/tutorials_adv.rst b/manual/source/tutorials_adv.rst
@@ -221,7 +221,7 @@ the ``test1.csv`` is processed twice, once with the original binning (``dr1`` an
    dr1 = pyWitness.DataRaw("test1.csv")
    dr2 = pyWitness.DataRaw("test1.csv")
    
-   dr2.collapseContinuousData(column = "confidence",bins = [-1,60,80,100],labels= [1,2,3])
+   dr2.collapseContinuousData(column = "confidence",bins = [-1,60,80,100],labels=None)
 
    dp1 = dr1.process()
    dp2 = dr2.process()
@@ -245,7 +245,7 @@ To make a legend the plots need to be given a label. So this example is the same
    dr1 = pyWitness.DataRaw("test1.csv")
    dr2 = pyWitness.DataRaw("test1.csv")
    
-   dr2.collapseContinuousData(column = "confidence",bins = [-1,60,80,100],labels= [1,2,3])
+   dr2.collapseContinuousData(column = "confidence",bins = [-1,60,80,100],labels=None)
 
    dp1 = dr1.process()
    dp2 = dr2.process()
@@ -278,7 +278,7 @@ Raw and processed data can be generated simply from a signal detection model.
 
    import pyWitness
    dr = pyWitness.DataRaw("test1.csv")
-   dr.collapseContinuousData(column = "confidence",bins = [-1,60,80,100],labels= None)
+   dr.collapseContinuousData(column = "confidence",bins = [-1,60,80,100],labels=None)
    dp = dr.process()
    mf = pyWitness.ModelFitIndependentObservation(dp)
    mf.setEqualVariance()
@@ -291,9 +291,8 @@ share with colleagues.
 
 .. code-block :: python
    :linenos:
-   :emphasize-lines: 2-3
+   :emphasize-lines: 1-2
 
-   dr1 = mf.generateRawData(nGenParticipants=10000)
    dr1.writeCsv()
    dr1.writeExcel()
 
@@ -310,9 +309,12 @@ So having performed a fit on ``dr`` and generated ``dr1`` a synthetic data set
    dp1.calculateConfidenceBootstrap()
 
    # plot ROCs
-   dp.plotROC()
-   dp1.plotROC()
-   mf.plotROC()
+   dp.plotROC(label="Experimental data")
+   dp1.plotROC(label="Simulated data")
+   mf.plotROC(label="Model fit")
+
+   import matplotlib.pyplot as _plt
+   _plt.legend()
 
 .. figure:: images/test1_genEx.jpg
    :alt: Generated data comparision example
